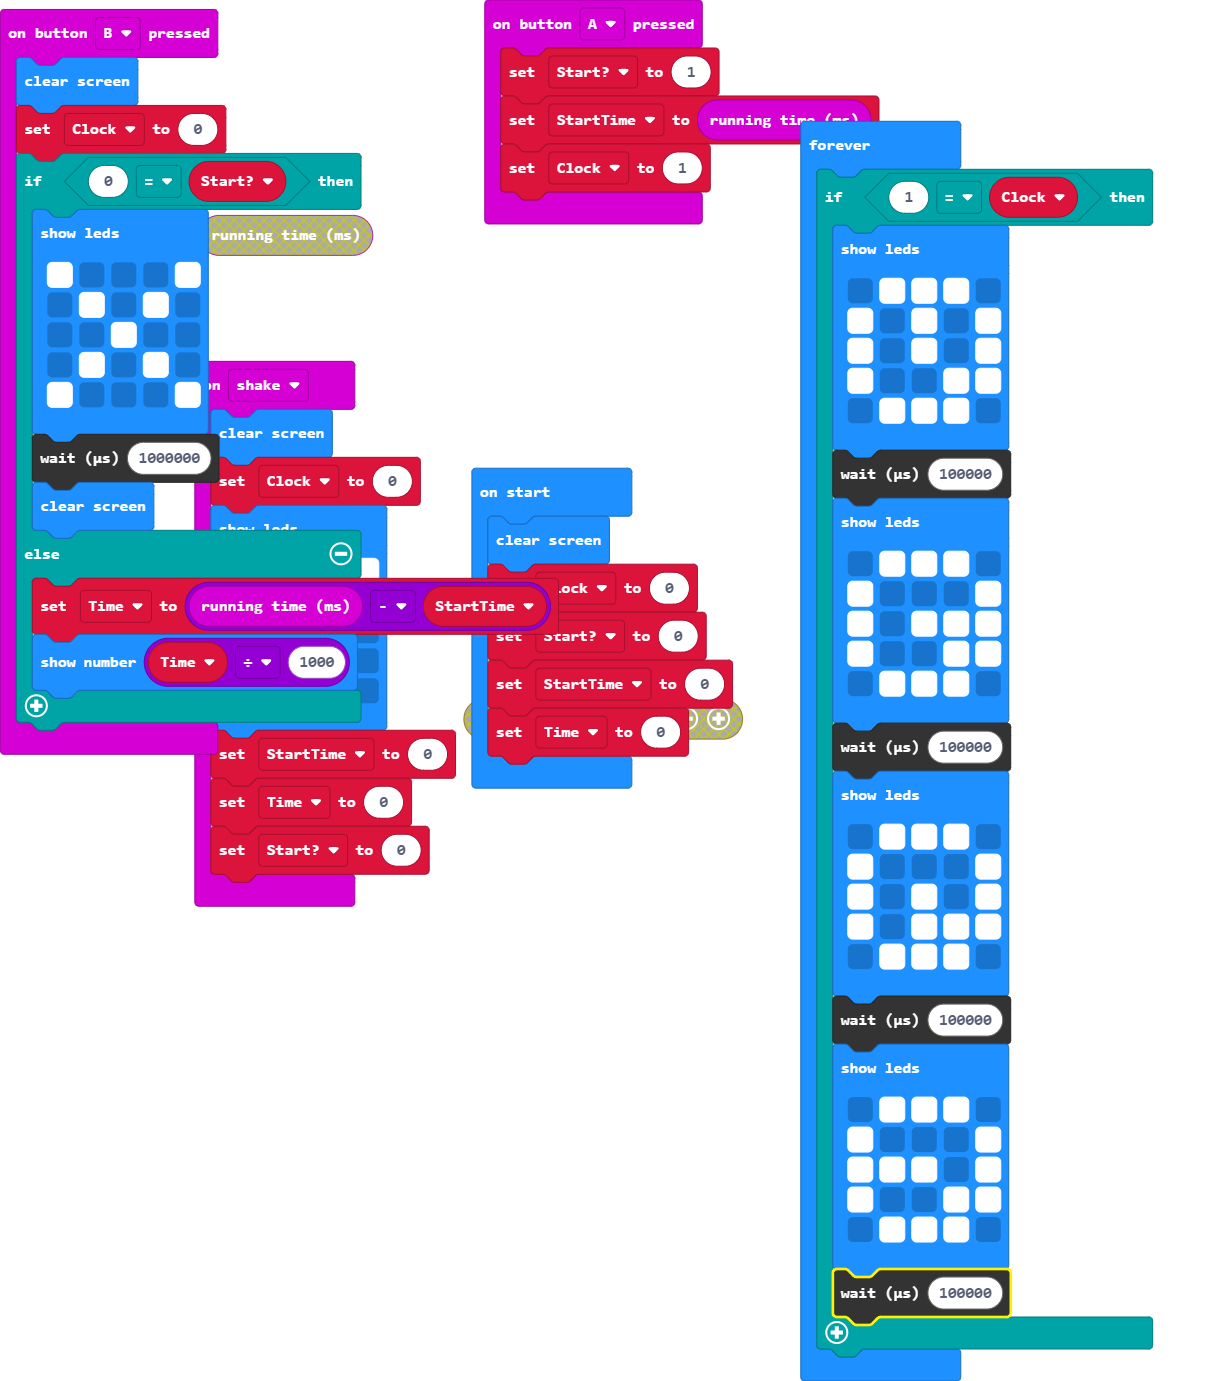
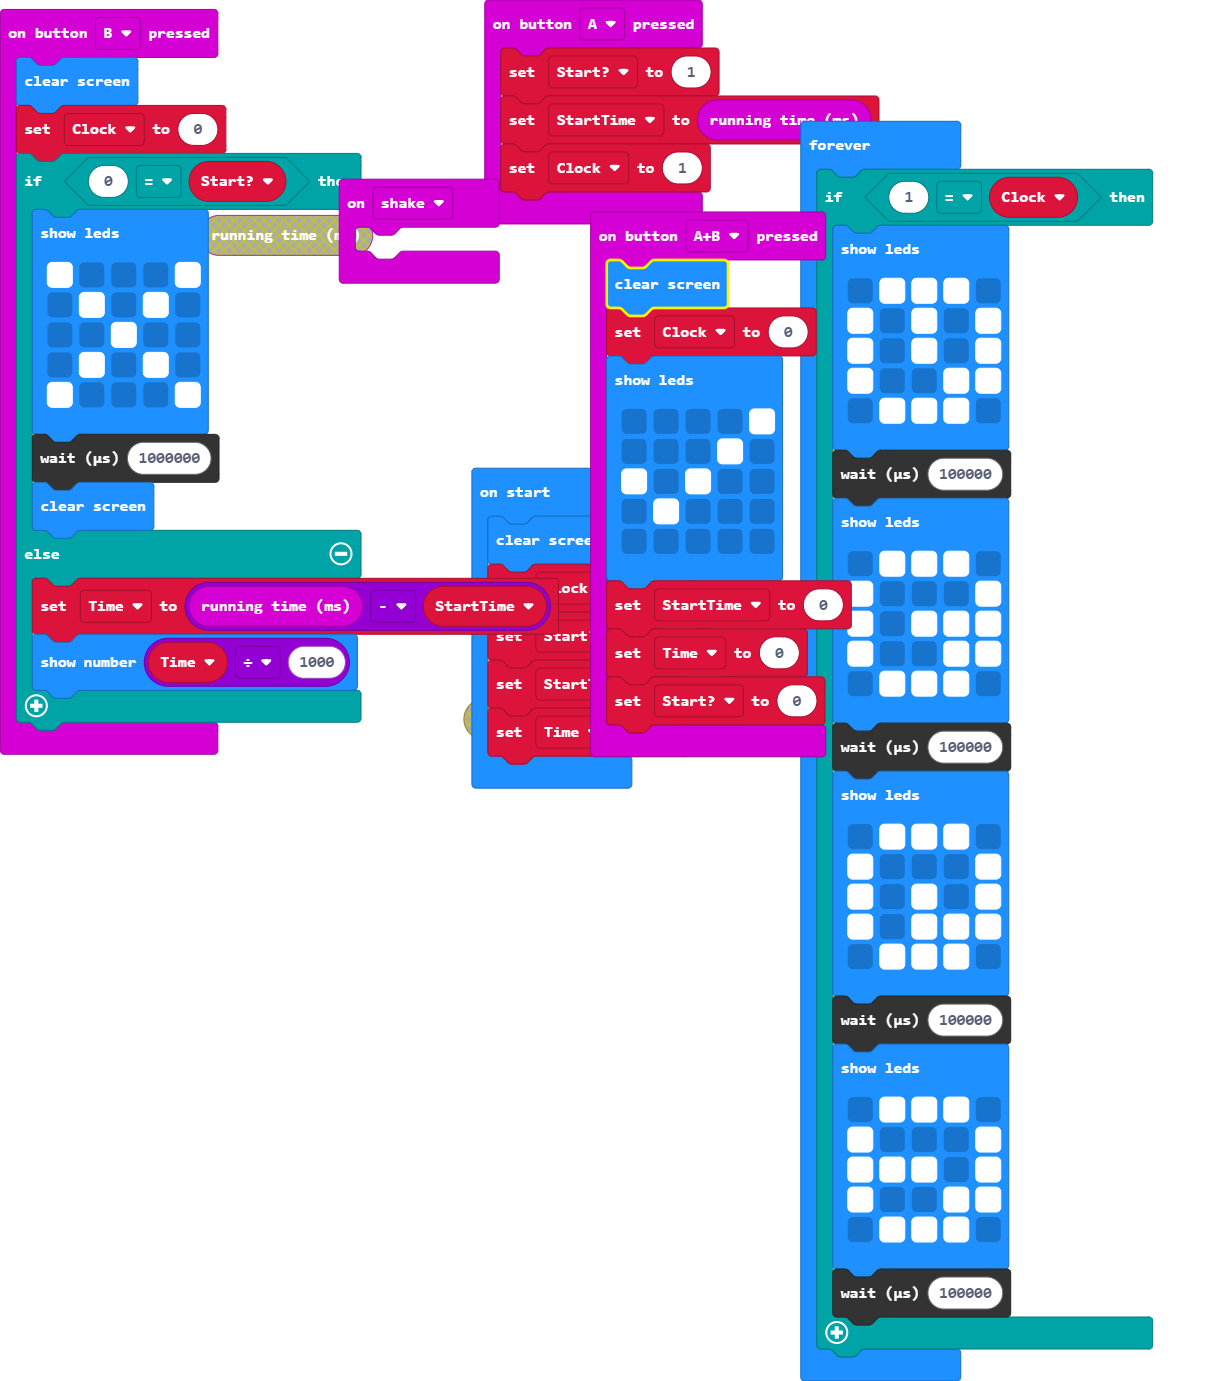
Update pxt.json, main.blocks, main.ts, main.py

diff --git a/main.ts b/main.ts
@@ -1,39 +1,46 @@
-input.onButtonPressed(Button.A, function () {
+input.onButtonPressed(Button.A, function on_button_pressed_a() {
+    
     Start = 1
     StartTime = input.runningTime()
     Clock = 1
 })
-input.onButtonPressed(Button.B, function () {
+input.onButtonPressed(Button.AB, function on_button_pressed_ab() {
+    
+    basic.clearScreen()
+    Clock = 0
+    basic.showLeds(`
+        . . . . #
+                . . . # .
+                # . # . .
+                . # . . .
+                . . . . .
+    `)
+    StartTime = 0
+    Time = 0
+    Start = 0
+})
+input.onButtonPressed(Button.B, function on_button_pressed_b() {
+    
     basic.clearScreen()
     Clock = 0
     if (0 == Start) {
         basic.showLeds(`
             # . . . #
-            . # . # .
-            . . # . .
-            . # . # .
-            # . . . #
-            `)
+                        . # . # .
+                        . . # . .
+                        . # . # .
+                        # . . . #
+        `)
         control.waitMicros(1000000)
         basic.clearScreen()
     } else {
         Time = input.runningTime() - StartTime
         basic.showNumber(Time / 1000)
     }
+    
 })
-input.onGesture(Gesture.Shake, function () {
-    basic.clearScreen()
-    Clock = 0
-    basic.showLeds(`
-        . . . . #
-        . . . # .
-        # . # . .
-        . # . . .
-        . . . . .
-        `)
-    StartTime = 0
-    Time = 0
-    Start = 0
+input.onGesture(Gesture.Shake, function on_gesture_shake() {
+    
 })
 let Time = 0
 let StartTime = 0
@@ -44,39 +51,40 @@ Clock = 0
 Start = 0
 StartTime = 0
 Time = 0
-basic.forever(function () {
+basic.forever(function on_forever() {
     if (1 == Clock) {
         basic.showLeds(`
             . # # # .
-            # . # . #
-            # . # . #
-            # . . # #
-            . # # # .
-            `)
+                        # . # . #
+                        # . # . #
+                        # . . # #
+                        . # # # .
+        `)
         control.waitMicros(100000)
         basic.showLeds(`
             . # # # .
-            # . . . #
-            # . # # #
-            # . . # #
-            . # # # .
-            `)
+                        # . . . #
+                        # . # # #
+                        # . . # #
+                        . # # # .
+        `)
         control.waitMicros(100000)
         basic.showLeds(`
             . # # # .
-            # . . . #
-            # . # . #
-            # . # # #
-            . # # # .
-            `)
+                        # . . . #
+                        # . # . #
+                        # . # # #
+                        . # # # .
+        `)
         control.waitMicros(100000)
         basic.showLeds(`
             . # # # .
-            # . . . #
-            # # # . #
-            # . . # #
-            . # # # .
-            `)
+                        # . . . #
+                        # # # . #
+                        # . . # #
+                        . # # # .
+        `)
         control.waitMicros(100000)
     }
+    
 })

diff --git a/main.py b/main.py
@@ -1,26 +1,91 @@
 def on_button_pressed_a():
-    global Watch, Stop
-    basic.clear_screen()
-    Watch = 0
-    Stop = 1
+    global Start, StartTime, Clock
+    Start = 1
+    StartTime = input.running_time()
+    Clock = 1
 input.on_button_pressed(Button.A, on_button_pressed_a)
 
-def on_button_pressed_b():
-    global Stop
+def on_button_pressed_ab():
+    global Clock, StartTime, Time, Start
     basic.clear_screen()
-    Stop = 2
+    Clock = 0
+    basic.show_leds("""
+        . . . . #
+                . . . # .
+                # . # . .
+                . # . . .
+                . . . . .
+    """)
+    StartTime = 0
+    Time = 0
+    Start = 0
+input.on_button_pressed(Button.AB, on_button_pressed_ab)
+
+def on_button_pressed_b():
+    global Clock, Time
+    basic.clear_screen()
+    Clock = 0
+    if 0 == Start:
+        basic.show_leds("""
+            # . . . #
+                        . # . # .
+                        . . # . .
+                        . # . # .
+                        # . . . #
+        """)
+        control.wait_micros(1000000)
+        basic.clear_screen()
+    else:
+        Time = input.running_time() - StartTime
+        basic.show_number(Time / 1000)
 input.on_button_pressed(Button.B, on_button_pressed_b)
 
-Watch = 0
-Stop = 0
-Stop = 0
-Watch = 0
+def on_gesture_shake():
+    pass
+input.on_gesture(Gesture.SHAKE, on_gesture_shake)
+
+Time = 0
+StartTime = 0
+Start = 0
+Clock = 0
+basic.clear_screen()
+Clock = 0
+Start = 0
+StartTime = 0
+Time = 0
 
 def on_forever():
-    global Watch
-    while Stop + 0 == 1:
-        control.wait_micros(1000)
-        Watch += 1
-    if Stop + 0 == 2:
-        basic.show_string("" + str((Watch / 100)))
+    if 1 == Clock:
+        basic.show_leds("""
+            . # # # .
+                        # . # . #
+                        # . # . #
+                        # . . # #
+                        . # # # .
+        """)
+        control.wait_micros(100000)
+        basic.show_leds("""
+            . # # # .
+                        # . . . #
+                        # . # # #
+                        # . . # #
+                        . # # # .
+        """)
+        control.wait_micros(100000)
+        basic.show_leds("""
+            . # # # .
+                        # . . . #
+                        # . # . #
+                        # . # # #
+                        . # # # .
+        """)
+        control.wait_micros(100000)
+        basic.show_leds("""
+            . # # # .
+                        # . . . #
+                        # # # . #
+                        # . . # #
+                        . # # # .
+        """)
+        control.wait_micros(100000)
 basic.forever(on_forever)
